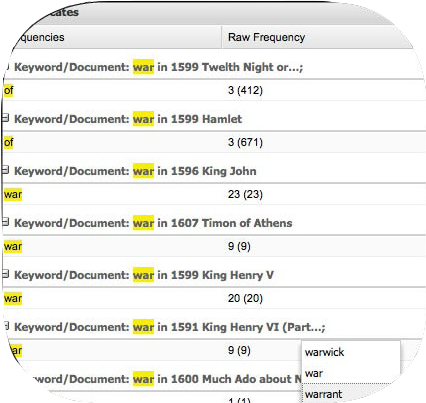
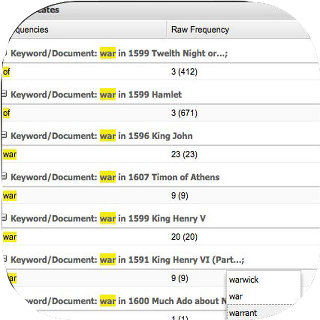
Bild zugeschnitten. Analyze überarbeitet

diff --git a/software/voyant-tools/public/stylesheets/analyze.css b/software/voyant-tools/public/stylesheets/analyze.css
@@ -9,11 +9,13 @@
 
 .analyze-tool-container{
 	height: 400px;
-	margin-top: 10px;
-	margin-bottom: 10px;
 	overflow: hidden;
-	margin-bottom: 0;
-	padding-bottom: 20px;
+	margin-left: 0;
+	margin-right: 0;
+	border: solid;
+    border-color: white;
+    border-width: 1px;
+    padding: 0;
 }
 
 .iframe {

diff --git a/software/voyant-tools/public/stylesheets/selecttools.css b/software/voyant-tools/public/stylesheets/selecttools.css
@@ -6,7 +6,7 @@
 }
 
 .tool-image{
-    height: 220px;    
+    height: 200px;    
 }
 
 
